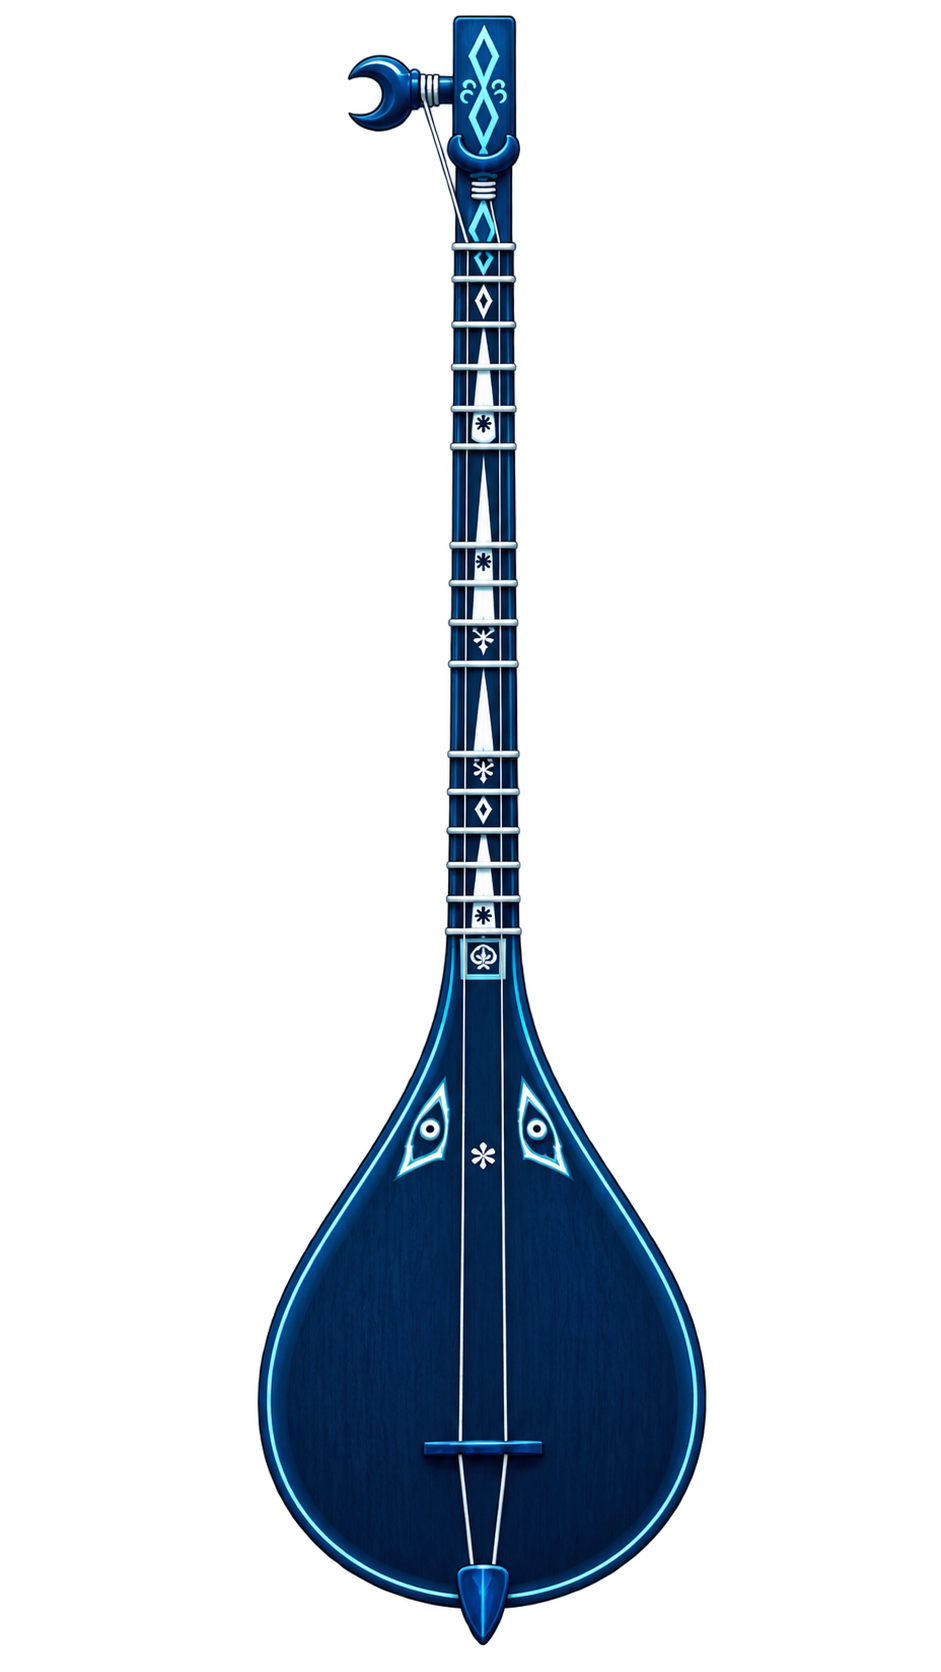
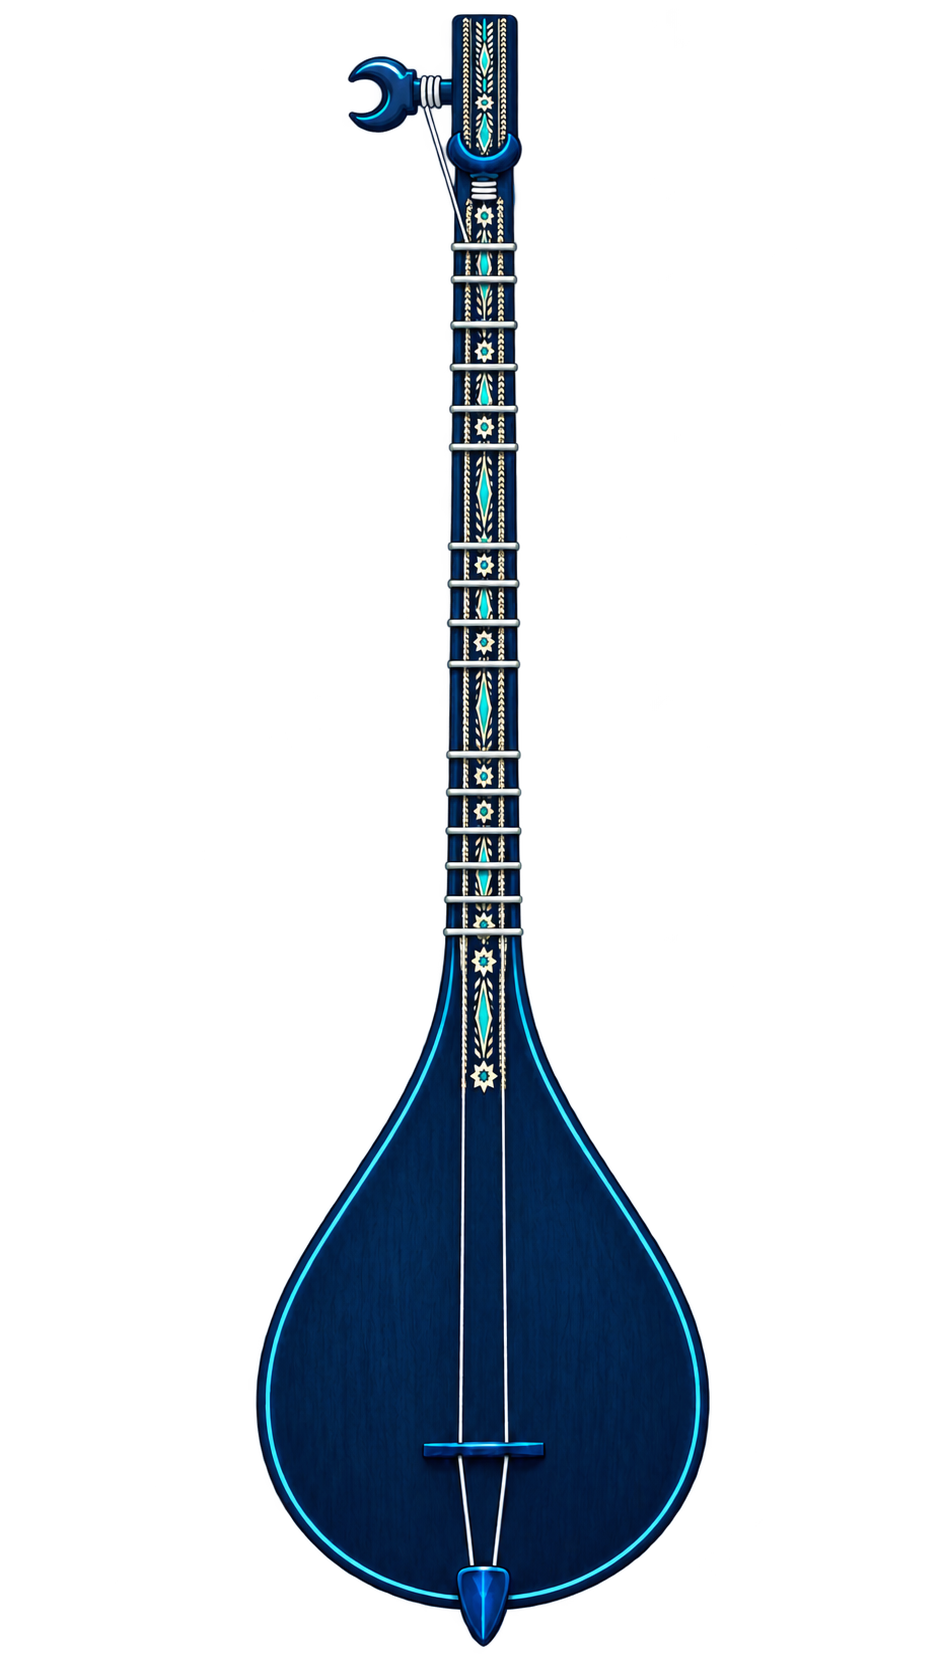
Improve tuner confirmation, system theme and Uyghur artwork

Changed region(s): [[0.2465, 0.0, 0.7705, 0.9952]]

diff --git a/www/app.js b/www/app.js
@@ -381,7 +381,7 @@ var nativeHaptics=
 
 function syncNativeAppearance(){
   if(nativeTuner && nativeTuner.setAppearance){
-    nativeTuner.setAppearance({dark:document.documentElement.dataset.theme==="dark"})
+    nativeTuner.setAppearance({preference:window.DuttarTheme.preference,dark:document.documentElement.dataset.theme==="dark"})
       .catch(function(){});
   }
 }
@@ -474,6 +474,7 @@ var tuningHapticsEnabled=
   localStorage.getItem("tuningHapticsEnabled")==="1";
 var completionAudioCtx=null;
 var completionMessageTimer=0;
+var completionStopTimer=0;
 
 
 /* =========================================
@@ -3014,6 +3015,8 @@ async function showPanel(name){
    ========================================= */
 
 function resetTuningProgress(){
+  clearTimeout(completionStopTimer);
+  completionStopTimer=0;
 
   cancelTuneAttempt();
 
@@ -3781,14 +3784,14 @@ function completeActiveString(){
       "var(--good)";
 
     syncStringVisualState();
-    showCompletionMessage();
+    showCompletionMessage(true);
     playCompletionFeedback(
       completedIndex,
       true
     );
 
 
-    setTimeout(
+    completionStopTimer=setTimeout(
       function(){
 
         stopTuner({
@@ -3798,13 +3801,14 @@ function completeActiveString(){
         });
 
       },
-      650
+      1500
     );
 
 
     return;
   }
 
+  showCompletionMessage(false);
   playCompletionFeedback(
     completedIndex,
     false
@@ -4549,6 +4553,7 @@ function toggleCalibration(){
 
 async function startTuner(options){
   if(tunerStartPending) return;
+  primeCompletionAudio();
   tunerStartPending=true;
   try{
     if(!listening && nativeTuner){
@@ -5419,6 +5424,7 @@ $("#settingsLang").onchange=
 $("#tuningSoundsToggle").onclick=
   function(){
     tuningSoundsEnabled=!tuningSoundsEnabled;
+    if(tuningSoundsEnabled)primeCompletionAudio();
     localStorage.setItem(
       "tuningSoundsEnabled",
       tuningSoundsEnabled ? "1" : "0"
@@ -5480,7 +5486,7 @@ function hideCompletionMessage(){
 }
 
 
-function showCompletionMessage(){
+function showCompletionMessage(allComplete){
 
   if(!appIsActive || document.hidden){
     return;
@@ -5493,13 +5499,19 @@ function showCompletionMessage(){
     return;
   }
 
-  message.setAttribute("aria-label",t("tuningComplete"));
+  message.setAttribute("aria-label",t(allComplete ? "tuningComplete" : "inTune"));
   message.hidden=false;
+  message.querySelectorAll('circle,path').forEach(function(shape){
+    var length=shape.getTotalLength();
+    shape.style.strokeDasharray=String(length);
+    shape.style.setProperty('--completion-length',String(length));
+  });
+  void message.offsetWidth;
   message.classList.add("visible");
 
   completionMessageTimer=setTimeout(
     hideCompletionMessage,
-    1400
+    1800
   );
 }
 
@@ -5539,6 +5551,15 @@ function createPluck(ctx,hz,start,duration,volume){
 }
 
 
+function primeCompletionAudio(){
+  if(!tuningSoundsEnabled)return;
+  var AudioCtor=window.AudioContext||window.webkitAudioContext;
+  if(!AudioCtor)return;
+  if(!completionAudioCtx || completionAudioCtx.state==='closed')completionAudioCtx=new AudioCtor();
+  // Unlock playback in the microphone button's user gesture, before permission awaits.
+  completionAudioCtx.resume().catch(function(){});
+}
+
 async function playCompletionFeedback(completedIndex,allComplete){
 
   if(!appIsActive || document.hidden){
@@ -5549,6 +5570,18 @@ async function playCompletionFeedback(completedIndex,allComplete){
 
   if(!tuningSoundsEnabled){
     return;
+  }
+
+  analysisResumeAt=Math.max(analysisResumeAt,Date.now()+(allComplete?1300:800));
+  if(nativeTuner && listening){
+    try{await nativeTuner.setAnalysisMuted({muted:true});}catch(error){}
+    clearTimeout(playCompletionFeedback.unmuteTimer);
+    playCompletionFeedback.unmuteTimer=setTimeout(function(){
+      if(!referenceActive)nativeTuner.setAnalysisMuted({muted:false}).catch(function(){});
+    },allComplete?1200:650);
+  }
+  if(isIOSApp && nativeTuner && nativeTuner.prepareReferencePlayback){
+    try{await nativeTuner.prepareReferencePlayback();}catch(error){}
   }
 
   var AudioCtor=window.AudioContext||window.webkitAudioContext;
@@ -5575,13 +5608,13 @@ async function playCompletionFeedback(completedIndex,allComplete){
 
   if(allComplete){
     /* Active tuning signature: target order, never hardcoded note names. */
-    targets.forEach(function(target,index){
+    [calibratedHz(targets[0].hz)*2,calibratedHz(targets[1].hz)*2,calibratedHz(targets[1].hz)*4].forEach(function(hz,index){
       createPluck(
         completionAudioCtx,
-        calibratedHz(target.hz)*2,
-        now+(index*.34),
-        index===targets.length-1 ? .68 : .48,
-        index===targets.length-1 ? .15 : .12
+        hz,
+        now+(index*.18),
+        index===2 ? .55 : .3,
+        index===2 ? .14 : .11
       );
     });
   }else{
@@ -5592,6 +5625,7 @@ async function playCompletionFeedback(completedIndex,allComplete){
       .42,
       .12
     );
+    createPluck(completionAudioCtx,calibratedHz(targets[completedIndex].hz)*3,now+.12,.3,.08);
   }
 }
 

diff --git a/www/layout-polish.css b/www/layout-polish.css
@@ -9,7 +9,7 @@ img{-webkit-user-drag:none}
 #fretsPanel .fret-map{min-height:420px;flex-shrink:0}
 /* About: section label, product name, explanation, then actions. */
 .about .info-head{font-size:14px;font-weight:700;margin-bottom:12px}
-.about > strong{display:block;color:var(--navy);font-family:Georgia,"Times New Roman",serif;font-size:20px;font-weight:700;line-height:1.25;letter-spacing:-.01em}
+.about > strong{display:block;color:var(--navy);font-family:Georgia,"Times New Roman",serif;font-size:17px;font-weight:700;line-height:1.25;letter-spacing:-.01em}
 .about > p{margin:7px 0 0;color:var(--muted);font-size:14px;line-height:1.6;font-weight:400}
 .about-links{gap:4px;margin-top:14px}
 .about-links .privacy-link{font-size:15px;font-weight:600;line-height:1.45;text-underline-offset:7px}
@@ -41,18 +41,17 @@ img{-webkit-user-drag:none}
 :root[data-theme=dark]{--tuner-success-surface:#183129;--tuner-success-border:#589878;--tuner-success-ink:#a1e5c1;--tuner-success-glow:rgba(138,219,180,.2);--tuner-check-ink:#10271c}
 #tunerPanel .string-card.completed,:root[data-theme=dark] #tunerPanel .string-card.completed{background:var(--tuner-success-surface);border-color:var(--tuner-success-border);box-shadow:inset 0 0 0 1px var(--tuner-success-border)}
 #tunerPanel .string-card.completed .string-note{color:var(--tuner-success-ink)}
-#tunerPanel .radio-dot{width:16px;height:16px;box-sizing:border-box;background:var(--card);border-color:var(--line)}
-#tunerPanel .string-card.completed .radio-dot{background:var(--good);border-color:var(--good)}
-#tunerPanel .string-card.completed .radio-dot::after{left:4px;top:2px;width:4px;height:7px;border-color:var(--tuner-check-ink);border-width:0 2px 2px 0}
+#tunerPanel .string-title{display:flex;align-items:center;gap:7px}
+#tunerPanel .string-card.completed .string-title::after{content:'✓';font-family:system-ui,sans-serif;font-size:16px;color:var(--tuner-success-ink)}
 #tunerPanel .string-card.complete-pulse{animation:confirmed-card-glow .55s ease-out}
 @keyframes confirmed-card-glow{0%,100%{box-shadow:inset 0 0 0 1px var(--tuner-success-border),0 0 0 0 transparent}40%{box-shadow:inset 0 0 0 1px var(--tuner-success-border),0 0 0 5px var(--tuner-success-glow)}}
 #tunerPanel .tuner-card.all-complete{border-color:var(--tuner-success-border);box-shadow:var(--shadow),0 0 20px var(--tuner-success-glow)}
-.tuning-complete-message{background:var(--tuner-success-surface);color:var(--tuner-success-ink);border:1px solid var(--tuner-success-border);box-shadow:0 8px 30px #0003,0 0 20px var(--tuner-success-glow)}
+.tuning-complete-message{position:absolute;top:55%;background:var(--tuner-success-surface);color:var(--tuner-success-ink);border:1px solid var(--tuner-success-border);box-shadow:0 8px 30px #0003,0 0 20px var(--tuner-success-glow)}
 .tuning-complete-message svg{width:52px;height:52px;fill:none;stroke:currentColor;stroke-linecap:round;stroke-linejoin:round}
-.completion-ring{stroke-width:2;opacity:.5;stroke-dasharray:1;transform:rotate(-90deg);transform-origin:center}
-.completion-check{stroke-width:3.5;stroke-dasharray:1}
-.tuning-complete-message.visible .completion-ring{animation:completion-draw .6s ease-out both}
-.tuning-complete-message.visible .completion-check{animation:completion-draw .4s .15s ease-out both}
-@keyframes completion-draw{from{stroke-dashoffset:1}to{stroke-dashoffset:0}}
+.completion-ring{stroke-width:2;opacity:.5;transform:rotate(-90deg);transform-origin:center}
+.completion-check{stroke-width:3.5}
+.tuning-complete-message.visible .completion-ring{animation:completion-draw .85s ease-out both}
+.tuning-complete-message.visible .completion-check{animation:completion-draw .65s .15s ease-out both}
+@keyframes completion-draw{from{stroke-dashoffset:var(--completion-length)}to{stroke-dashoffset:0}}
 @media(prefers-reduced-motion:reduce){#tunerPanel .string-card.complete-pulse,.tuning-complete-message.visible .completion-ring,.tuning-complete-message.visible .completion-check{animation:none}}
 @media(max-height:650px){#tunerPanel .pitch-row,#tunerPanel .status{top:-2px}#tunerPanel .instrument-wrap{transform:translateY(-3px)}}

diff --git a/www/index.html b/www/index.html
@@ -66,9 +66,9 @@
           <g class="gauge-center" aria-hidden="true"><circle class="target-halo" cx="105" cy="93" r="12"/><circle class="target-ring" cx="105" cy="93" r="7"/><circle class="target-core" cx="105" cy="93" r="2.6"/></g>
         </svg>
         <span class="gauge-label flat" data-i18n="flat">PES</span><span class="gauge-label sharp" data-i18n="sharp">TİZ</span>
+      <div class="tuning-complete-message" id="tuningCompleteMessage" role="status" aria-live="polite" hidden aria-label="Akort tamamlandı"><svg viewBox="0 0 52 52" aria-hidden="true"><circle class="completion-ring" cx="26" cy="26" r="23"/><path class="completion-check" d="M14 26L22 34L38 18"/></svg></div>
       </div>
       <div class="status" id="status" data-i18n="ready">HAZIR</div>
-      <div class="tuning-complete-message" id="tuningCompleteMessage" role="status" aria-live="polite" hidden aria-label="Akort tamamlandı"><svg viewBox="0 0 52 52" aria-hidden="true"><circle class="completion-ring" cx="26" cy="26" r="23" pathLength="1"/><path class="completion-check" d="M14 26L22 34L38 18" pathLength="1"/></svg></div>
       <div class="pitch-row"><div class="note" id="note">RE</div><div class="cents" id="cents">0 cent</div></div>
       <div
               class="instrument-wrap"
@@ -88,12 +88,10 @@
         <div class="string-card active" data-string="0" role="button" tabindex="0">
           <div class="string-copy"><div class="string-title"><span class="string-note">RE</span></div><div class="string-kicker" data-i18n="string1">1. TEL · ZİL</div></div>
           <button class="preview-tone" type="button" data-string="0" aria-label="Referans sesini dinle"><svg viewBox="0 0 24 24" aria-hidden="true"><path d="M5 9v6h4l5 4V5L9 9H5Z"/><path d="M17 9a4 4 0 0 1 0 6"/><path d="M19 6.5a8 8 0 0 1 0 11"/></svg></button>
-          <span class="radio-dot"></span>
         </div>
         <div class="string-card" data-string="1" role="button" tabindex="0">
           <div class="string-copy"><div class="string-title"><span class="string-note">SOL</span></div><div class="string-kicker" data-i18n="string2">2. TEL · BOM</div></div>
           <button class="preview-tone" type="button" data-string="1" aria-label="Referans sesini dinle"><svg viewBox="0 0 24 24" aria-hidden="true"><path d="M5 9v6h4l5 4V5L9 9H5Z"/><path d="M17 9a4 4 0 0 1 0 6"/><path d="M19 6.5a8 8 0 0 1 0 11"/></svg></button>
-          <span class="radio-dot"></span>
         </div>
       </div>
       <p class="listen-help" data-i18n="tapString">Akort etmek istediğiniz tele dokunun.</p>

diff --git a/ios/App/App/MyViewController.swift b/ios/App/App/MyViewController.swift
@@ -4,6 +4,7 @@ import Capacitor
 class MyViewController: CAPBridgeViewController {
     private var launchOverlay: UIView?
     private var allowsNoteRotation = false
+    private var appearancePreference = "system"
 
     override var supportedInterfaceOrientations: UIInterfaceOrientationMask {
         if allowsNoteRotation {
@@ -25,17 +26,29 @@ class MyViewController: CAPBridgeViewController {
         }
     }
 
-    func setDarkAppearance(_ dark: Bool) {
-        let style: UIUserInterfaceStyle = dark ? .dark : .light
+    func setAppearance(_ preference: String, dark: Bool) {
+        appearancePreference = preference
+        let style: UIUserInterfaceStyle = preference == "system" ? .unspecified : (dark ? .dark : .light)
+        overrideUserInterfaceStyle = style
+        view.window?.overrideUserInterfaceStyle = style
+        updateBackground(traitCollection.userInterfaceStyle == .dark)
+    }
+
+    private func updateBackground(_ dark: Bool) {
         let background = UIColor(red: dark ? 8.0 / 255.0 : 247.0 / 255.0,
                                  green: dark ? 12.0 / 255.0 : 248.0 / 255.0,
                                  blue: dark ? 18.0 / 255.0 : 246.0 / 255.0,
                                  alpha: 1.0)
-        overrideUserInterfaceStyle = style
-        view.window?.overrideUserInterfaceStyle = style
         view.window?.backgroundColor = background
         view.backgroundColor = background
         webView?.backgroundColor = background
+    }
+
+    override func traitCollectionDidChange(_ previousTraitCollection: UITraitCollection?) {
+        super.traitCollectionDidChange(previousTraitCollection)
+        if appearancePreference == "system" {
+            updateBackground(traitCollection.userInterfaceStyle == .dark)
+        }
     }
 
     override func viewDidLoad() {
@@ -79,6 +92,6 @@ class MyViewController: CAPBridgeViewController {
         bridge?.registerPluginInstance(DutarTunerPlugin())
 
         webView?.isOpaque = false
-        setDarkAppearance(traitCollection.userInterfaceStyle == .dark)
+        setAppearance("system", dark: traitCollection.userInterfaceStyle == .dark)
     }
 }

diff --git a/www/ui.css b/www/ui.css
@@ -1,8 +1,8 @@
 /* Shared surfaces and interaction states; loaded after the original layout. */
-:root{--primary-bg:#173b5d;--primary-ink:#fff;--accent-ink:#fff;--accent-bg:#267b79;--focus:#176b89;--surface-soft:#edf4f2;--muted:#526874;--danger:#a6293d;--pattern-opacity:.30}
+:root{--primary-bg:#173b5d;--primary-ink:#fff;--accent-ink:#fff;--accent-bg:#267b79;--focus:#176b89;--surface-soft:#edf4f2;--muted:#526874;--danger:#a6293d;--pattern-opacity:.40}
 :root[data-theme=dark]{--paper:#080c12;--card:#141d28;--surface-soft:#1b2a37;--navy:#e5eff8;--navy2:#b9d4e8;--text:#e5eff8;--muted:#a9bfcd;--line:#344a5a;--mint:#183b3b;--turq:#8ad4ce;--turq2:#9cded8;--good:#8adbb4;--warn:#edbb7e;--primary-bg:#8ad4ce;--primary-ink:#092a2a;--accent-bg:#8ad4ce;--accent-ink:#092a2a;--focus:#a4dbff;--danger:#ffadbb;--shadow:0 10px 28px #0006;--pattern-opacity:.035}
 body::before{opacity:var(--pattern-opacity)}
-:root[data-theme=dark] body::before{background-image:url('etles_desen_dark.png');opacity:.25}
+:root[data-theme=dark] body::before{background-image:url('etles_desen_dark.png');opacity:.31}
 .hidden,[hidden]{display:none!important}
 button,a,select,[role=button]{-webkit-tap-highlight-color:transparent;touch-action:manipulation}
 button,[role=button],.privacy-link{transition:background-color .16s,color .16s,box-shadow .16s,filter .12s,scale .12s}

diff --git a/ios/App/App/DutarTunerPlugin.swift b/ios/App/App/DutarTunerPlugin.swift
@@ -105,9 +105,10 @@ public class DutarTunerPlugin: CAPPlugin, CAPBridgedPlugin {
 
     @objc func setAppearance(_ call: CAPPluginCall) {
         let dark = call.getBool("dark") ?? false
+        let preference = call.getString("preference") ?? "system"
         DispatchQueue.main.async { [weak self] in
             if let controller = self?.bridge?.viewController as? MyViewController {
-                controller.setDarkAppearance(dark)
+                controller.setAppearance(preference, dark: dark)
             }
             call.resolve()
         }

diff --git a/artwork/README.md b/artwork/README.md
@@ -1,0 +1,18 @@
+# Duttarim artwork update
+
+Generated with the built-in image_gen tool from the user's real dutar photograph and existing transparent illustrations. Original canvas dimensions retained: head 1254×1254, full dutar 941×1672. No proportional stretching was applied, to preserve the fret map and string-overlay calibration. Native icon sizes are exported by tools/export-app-icons.cjs.
+
+Assets: `www/dutar-head.png`, `www/TamDuttar.png`, `artwork/app-icon.png`.
+
+## Head prompt
+
+Use case: precise-object-edit. Edit target image 1 is the transparent navy/turquoise Duttarim head illustration. Image 2 is the real Uyghur dutar ornament reference. Replace ONLY ornamental motifs inside the dark blue wooden head/neck with the reference's inlaid decoration: fine paired ivory/cyan herringbone chevrons running along the center, slim alternating elongated diamond/leaf forms, tiny eight-point rosettes and narrow geometric edge borders. Keep the established navy and turquoise illustration palette (ivory accents allowed), clean restrained flat illustration shading. Preserve the exact original canvas framing, silhouette, tuning pegs, every white string and its winding, white horizontal fret bar, and their exact positions. No extra strings or frets. Do not move, recolor or cover the strings. Remove the existing large ikat loop motifs and replace them with the finer traditional inlay motifs visible in the real reference. No text. Output a single PNG with genuine transparent background, same composition as the edit target; no checkerboard or white background. This is a production app asset whose existing string highlight overlays must still line up exactly.
+
+## Full instrument prompt
+
+Use case: precise-object-edit. Edit target image 1 is the full-length transparent blue dutar illustration used as a fret diagram. Reference image 2 is the real Uyghur dutar, reference image 3 is the newly approved matching head ornament style. Replace ONLY the decorative inlay motifs within the dark blue wood of image 1 using the real instrument's narrow herringbone/paired chevrons, elongated diamond/leaf inserts, tiny rosettes and geometric borders, matching the navy/turquoise/ivory palette of reference 3. Body should be largely plain dark blue wood like the real instrument's plain soundboard; remove the invented eye/leaf ornaments on its shoulders. Keep the entire silhouette and composition of image 1 unchanged so its existing fret diagram overlay remains calibrated. CRITICAL: retain each of the existing horizontal fret bars at EXACTLY the same original relative x/y position, same number, irregular gaps and width; do not add/remove/shift frets. Preserve all white string lines, their winding, bridge and tail attachment at their exact positions and trajectories. Keep front view, straight vertical orientation, complete instrument including bottom tip. Do not change aspect ratio or scale inside the canvas, since preservation of strings/frets takes priority over optional proportion adjustments. No text, no labels, no glow outside silhouette. Single PNG, genuinely transparent background, not a checkerboard. Ornament edit only, restrained illustration shading.
+
+## App logo prompt
+
+Use case: precise-object-edit. Image 1 is Duttarim's existing 1024x1024 app logo icon, edit target. Image 2 is the matching updated transparent dutar head artwork. Replace only the old turquoise ikat loop decorations on the head in image 1 with the new fine ivory/turquoise herringbone, narrow diamond leaves, and rosettes of image 2. Keep image 1's exact composition, logo size, white/off-white subtle textile-pattern background, head silhouette, tuning pegs, strings/windings and fret bar unchanged. Preserve app-icon readability with crisp detail. This is a coordinated app logo update, not a new composition. No text or border. Output opaque square 1024x1024 PNG without rounded corners.
+
